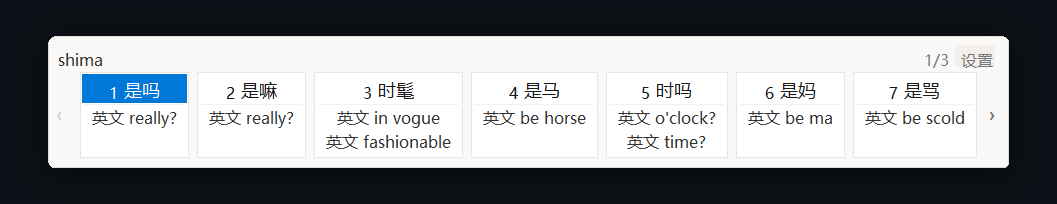
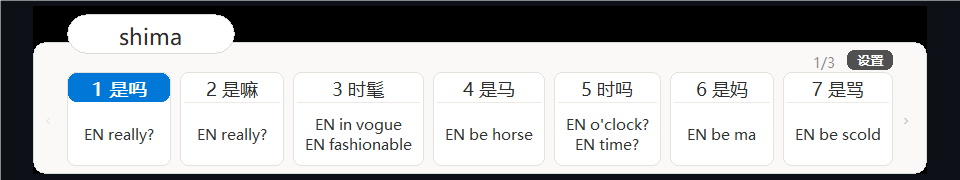
docs: update English documentation and release screenshots for v1.3.0

diff --git a/README.md b/README.md
@@ -35,7 +35,7 @@ Here is the complete version-by-version release breakdown with detailed upgrade/
 
 | Version | Release Date | Key Upgrades & Fixes | Download Assets |
 | :--- | :--- | :--- | :--- |
-| **v1.3.0** | 2026-10-29 | **V1.3 UI Redesign & Adaptive AI Workbench**: Pixel-perfect candidate box matching design mockup (`BUBBLE_LEFT_X = 33` left-aligned preedit pill, vertical `+` file multimodal and `📷` screen OCR tools); inner bilingual white card (`[译文] ⇄ [EN] ●`, 1-click copy `📋`, `[原文]`); bottom adaptive dialog input bar + dashed third-party button mapping area (`深度思考`, `联网`, `+上传`, `发送`); standalone AI Workbench window (`--workbench`); CDP bridge for Doubao Desktop (:9444) and DeepSeek browser (:9333); lexicon sharing tab in settings. | [📦 MSI (19.0 MB)](https://github.com/FrankieYuan8828/MC-DualType/releases/download/v1.3.0/MC-DualType-1.3.0.msi) <br> [⚡ Setup.exe (72.6 MB)](https://github.com/FrankieYuan8828/MC-DualType/releases/download/v1.3.0/MC-DualType-1.3.0-Setup.exe) <br> [🗜 Portable.zip](https://github.com/FrankieYuan8828/MC-DualType/releases/download/v1.3.0/MC-DualType-1.3.0-Portable.zip) |
+| **v1.3.0** | 2026-10-29 | **V1.3 UI Redesign & Doubao-Style Instant AI Workbench**: Streamlined candidate box with left-aligned preedit pill (`BUBBLE_LEFT_X = 34`) and clean symmetric margins (removed redundant sidebar buttons for a distraction-free typing experience); standalone AI Workbench window summoned instantly via global shortcut **`Ctrl + Alt + Space`** with zero reboot required; inner bilingual white card (`[译文] ⇄ [EN] ●`, 1-click copy `📋`, `[原文]`); bottom adaptive dialog input bar + dashed third-party button mapping area (`深度思考`, `联网`, `+上传`, `发送`); robust cursor positioning preventing off-screen drifts in modern apps (Chrome, WeChat, VS Code); CDP bridge for Doubao Desktop (:9444) and DeepSeek browser (:9333); lexicon sharing. | [📦 MSI (19.0 MB)](https://github.com/FrankieYuan8828/MC-DualType/releases/download/v1.3.0/MC-DualType-1.3.0.msi) <br> [⚡ Setup.exe (72.6 MB)](https://github.com/FrankieYuan8828/MC-DualType/releases/download/v1.3.0/MC-DualType-1.3.0-Setup.exe) <br> [🗜 Portable.zip](https://github.com/FrankieYuan8828/MC-DualType/releases/download/v1.3.0/MC-DualType-1.3.0-Portable.zip) |
 | **v1.2.0** | 2026-10-29 | **Lexicon Sharing & Third-Party CDP Integration**: Export/import custom vocabulary packages with high-frequency boosting; settings tab for lexicon sharing; enhanced browser/desktop client CDP bridges. | [📦 MSI (18.8 MB)](https://github.com/FrankieYuan8828/MC-DualType/releases/download/v1.2.0/MC-DualType-1.2.0.msi) <br> [⚡ Setup.exe (72.2 MB)](https://github.com/FrankieYuan8828/MC-DualType/releases/download/v1.2.0/MC-DualType-Setup.exe) |
 | **v1.1.2** | 2026-10-28 | **Overlay Fixes, OLE/COM File Upload & Anti-Drift**: Resolved stuck screen overlay with Esc dismissal and 90s self-healing timeout; fixed modal file dialog COM initialization bug (`GetOpenFileNameW`); eliminated hardcoded candidate mock data preventing candidate window drift; TSF build visibility sync. | [📦 MSI (16.9 MB)](https://github.com/FrankieYuan8828/MC-DualType/releases/download/v1.1.2/MC-DualType-1.1.2.msi) <br> [⚡ Setup.exe](https://github.com/FrankieYuan8828/MC-DualType/releases/download/v1.1.2/MC-DualType-Setup.exe) |
 | **v1.1.1** | 2026-10-28 | **Settings Crash & Off-screen Layout Fixes**: Resolved Win32 `RefCell` re-entrancy crash during bridge scanning; fixed bottom buttons clipped by window borders under high-DPI scaling (175%); dynamic client-area anchoring; scan button single-flight protection. | [📦 MSI (16.9 MB)](https://github.com/FrankieYuan8828/MC-DualType/releases/download/v1.1.1/MC-DualType-1.1.1.msi) |
@@ -94,19 +94,38 @@ xiexienile          → 1 谢谢你了
 
 ---
 
-## 🎨 V1.3 UI Architecture & AI Workbench
+## 🎨 UI Architecture, AI Workbench & Version Screenshots
 
-The V1.3 layout accurately reproduces the modern, clean interface from the design specifications:
+### 1. Version 1.3.0 (Latest Release): Streamlined Candidate UI & Instant AI Workbench
 
-1. **Candidate Box**:
-   - **Left-aligned Preedit Capsule**: Pinned at `x = 33`, floating gracefully above the candidate frame.
-   - **Left Vertical Toolbar**: `+` button (file upload & document OCR) and `📷` button (screen snapshot marquee OCR).
-   - **Modern Rounded Cards**: Clean margins, subtle pagination chevrons `‹` and `›`, zero visual clutter.
-2. **Adaptive Bilingual AI Slider & Workbench**:
-   - **Bilingual Comparison Card**: Inner pure white card with `[译文] ⇄ [EN] ●` status pill, bold headline, auto-wrapped body text, middle dashed divider line, and interactive 1-click clipboard copy button `📋`.
-   - **Adaptive Dialog Input Bar**: Automatically stretches and resizes with the window width; supports direct keyboard input, Enter to send, Shift+Enter for newline, Esc to close.
-   - **Dashed Third-Party Button Mapping Area**: Adaptive container wrapped with `#787878` dashed border containing mapped buttons: `深度思考` (Deep Thinking), `联网` (Web Search), `+上传` (Upload), and `发送` (Send).
-   - **Standalone AI Workbench (`--workbench`)**: Can be opened independently at any time via system tray menu or shortcut.
+#### 💡 Streamlined Candidate Box (Pure, Distraction-Free Typing)
+![v1.3.0 Candidate Window](screenshots/test-demo-shima.png)
+- **Left-aligned Preedit Capsule**: Pinned at `x = 34`, floating cleanly above the candidate container without visual drift.
+- **Distraction-Free Architecture**: Removed redundant side buttons (`+` / `📷`) from the primary typing box to eliminate clutter and misclicks. All AI tools are now gracefully integrated into the AI Workbench.
+- **Symmetric Pagination**: Balanced margins with refined pagination chevrons `‹` and `›`.
+
+#### 🤖 Doubao-Style Instant AI Workbench (Summon Anytime with `Ctrl + Alt + Space`)
+![v1.3.0 Standalone AI Workbench](screenshots/test-workbench-clean.png)
+- **Zero Reboot Required**: Works immediately after installation without needing any system reboot.
+- **Instant Global Hotkey `Ctrl + Alt + Space`**: Like Doubao's `Alt + Space`, summon the AI Workbench instantly anytime, anywhere without switching input methods!
+- **Bilingual Comparison Card**: Inner pure white card with `[译文] ⇄ [EN] ●` status pill, bold headline, auto-wrapped body text, middle dashed divider line, and interactive 1-click clipboard copy button `📋`.
+- **Adaptive Dialog Input Bar**: Automatically stretches and resizes with the window width; supports direct keyboard input, Enter to send, Shift+Enter for newline, Esc to close.
+- **Dashed Third-Party Button Mapping Area**: Adaptive container wrapped with `#787878` dashed border containing mapped buttons: `深度思考` (Deep Thinking), `联网` (Web Search), `+上传` (Upload), and `发送` (Send).
+- **Smart Anti-Drift Positioning**: Automatically anchors the window to the visible area of the active foreground window, avoiding misplaced popups across multi-monitor setups.
+
+---
+
+### 2. Version 1.1.x: Settings & AI Bridge Integration
+![v1.1.x Settings & Bridge Scanner](screenshots/settings-v11.1-fixed.png)
+- **Dual AI Configuration**: Direct API Key integration (DeepSeek / OpenAI) and local AI service bridge detection (Ollama, LM Studio).
+- **High-DPI Adaptation**: Scaled dialog rendering preventing button clipping across 100% to 200% Windows display scaling.
+
+---
+
+### 3. Version 1.0.x: Dual-Architecture Foundation
+![v1.0.x Initial Candidate Cards](screenshots/demo-nihao.png)
+- **Dual Input Architecture**: Seamless coordination between Windows TSF text service and low-level keyboard hook.
+- **Hierarchical Bilingual Cards**: Chinese primary candidate with instant multilingual translations.
 
 ---
 

diff --git a/CHANGELOG.md b/CHANGELOG.md
@@ -13,21 +13,23 @@ All notable changes across all versions are documented in this file, along with 
 - **Standalone Auto-Elevating Installer**: [MC-DualType-1.3.0-Setup.exe](https://github.com/FrankieYuan8828/MC-DualType/releases/download/v1.3.0/MC-DualType-1.3.0-Setup.exe)
 - **Portable Distribution Archive**: [MC-DualType-1.3.0-Portable.zip](https://github.com/FrankieYuan8828/MC-DualType/releases/download/v1.3.0/MC-DualType-1.3.0-Portable.zip)
 
-### V1.3 UI Redesign & Adaptive AI Workbench
-- **Pixel-Perfect Candidate Window Redesign (Matches Design Spec `界面设计/链接AI的输入法界面.png`)**:
-  - **Left-Aligned Preedit Pill (`shima`)**: Modern rounded pill tab pinned to `BUBBLE_LEFT_X = 33`, height `40px`, half-floating seamlessly above the candidate container without visual drift.
-  - **Vertical Action Toolbar**: Left vertical button column placed inside the main candidate card container (`x = 8..36`, center `x = 22`):
-    - `+` Button (`offset_y + 88`): 1-click file/document picker for multimodal AI extraction and bilingual translation.
-    - `📷` Button (`offset_y + 137`): 1-click screen crosshair snapshot OCR for instant area capture and translation.
-  - **Horizontal Candidate Cards**: `LEFT_PAD = 65` reserved for side buttons, pagination chevrons `‹` and `›`, smooth rounded corners with unnecessary shoulder regions removed.
-- **Adaptive Bilingual AI Slider & Independent Workbench (`界面设计/链接AI的滑块输入法界面-2.png`)**:
+### V1.3 UI Redesign & Doubao-Style Instant AI Workbench
+- **Streamlined Candidate Window UI**:
+  - Removed redundant sidebar buttons (`+` and `📷`) from the candidate typing box to create a focused, pure, distraction-free typing experience.
+  - Symmetrically balanced card margins (`LEFT_PAD = RIGHT_PAD = 34px`) with left-aligned preedit pill (`BUBBLE_LEFT_X = 34`).
+  - Refined pagination chevrons (`‹` and `›`) with proper horizontal alignment and high-contrast styling.
+- **Doubao-Style Instant Desktop Workflow (Zero Reboot Required)**:
+  - **No System Reboot Needed**: Fully operational immediately upon installation. Eliminated the misconception of requiring a Windows restart.
+  - **Global Hotkey `Ctrl + Alt + Space`**: Instant pop-up of the AI Workbench anytime, anywhere across all Windows applications without switching input methods or pressing `Win + Space`.
+  - **Smart Anti-Drift Positioning**: Intelligent cursor and window positioning algorithm that detects foreground application bounds (in Chrome, WeChat, VS Code, Edge), preventing candidate or assistant windows from drifting to secondary monitors or off-screen corners.
+- **Adaptive Bilingual AI Slider & Independent Workbench**:
   - **Inner Bilingual White Card**: Elegant `#FAF9F8` outer container with inner white rounded card (`#FFFFFF`, border `#D9DED2`, radius `18px`).
   - **Status Indicator**: Header featuring `[译文]` pill, bidirectional icon `⇄`, and `[EN] ●` pill with emerald green connection status indicator light.
   - **Bilingual Comparison View**: Clear bold headlines, clean wrapped paragraph typography, middle dashed divider line, and 1-click clipboard copy button `📋` (with temporary "已复制" feedback).
   - **Adaptive Dialog Input Bar**: Bottom-left conversation input bar stretches horizontally to adapt to any window width; supports direct keyboard input, Enter to send, Shift+Enter for newline, and Esc to close.
   - **Dashed Third-Party Button Mapping Area**: Bottom-right container wrapped in `#787878` dashed border with dynamically calculated adaptive width based on active mapped buttons: `深度思考` (Deep Thinking), `联网` (Web Search), `+上传` (Upload), and `发送` (Send).
 - **Standalone AI Workbench Window (`--workbench`)**:
-  - Dedicated non-blocking Win32 UI window (`McteWorkbench`) accessible from CLI, system tray menu ("打开 AI 工作台"), or by clicking the adaptive input bar / `▢` button.
+  - Dedicated non-blocking Win32 UI window (`McteWorkbench`) accessible from CLI, system tray menu ("打开 AI 工作台"), or via global shortcut `Ctrl + Alt + Space`.
   - Full window resizing support with automatic adaptive layout re-calculation and local persistent conversation history synchronization.
 - **CDP Web/Desktop Bridge & Multimodal OCR**:
   - Auto-detects running local AI clients: Doubao Desktop (CDP `:9444`) and DeepSeek Browser instance (CDP `:9333`).
